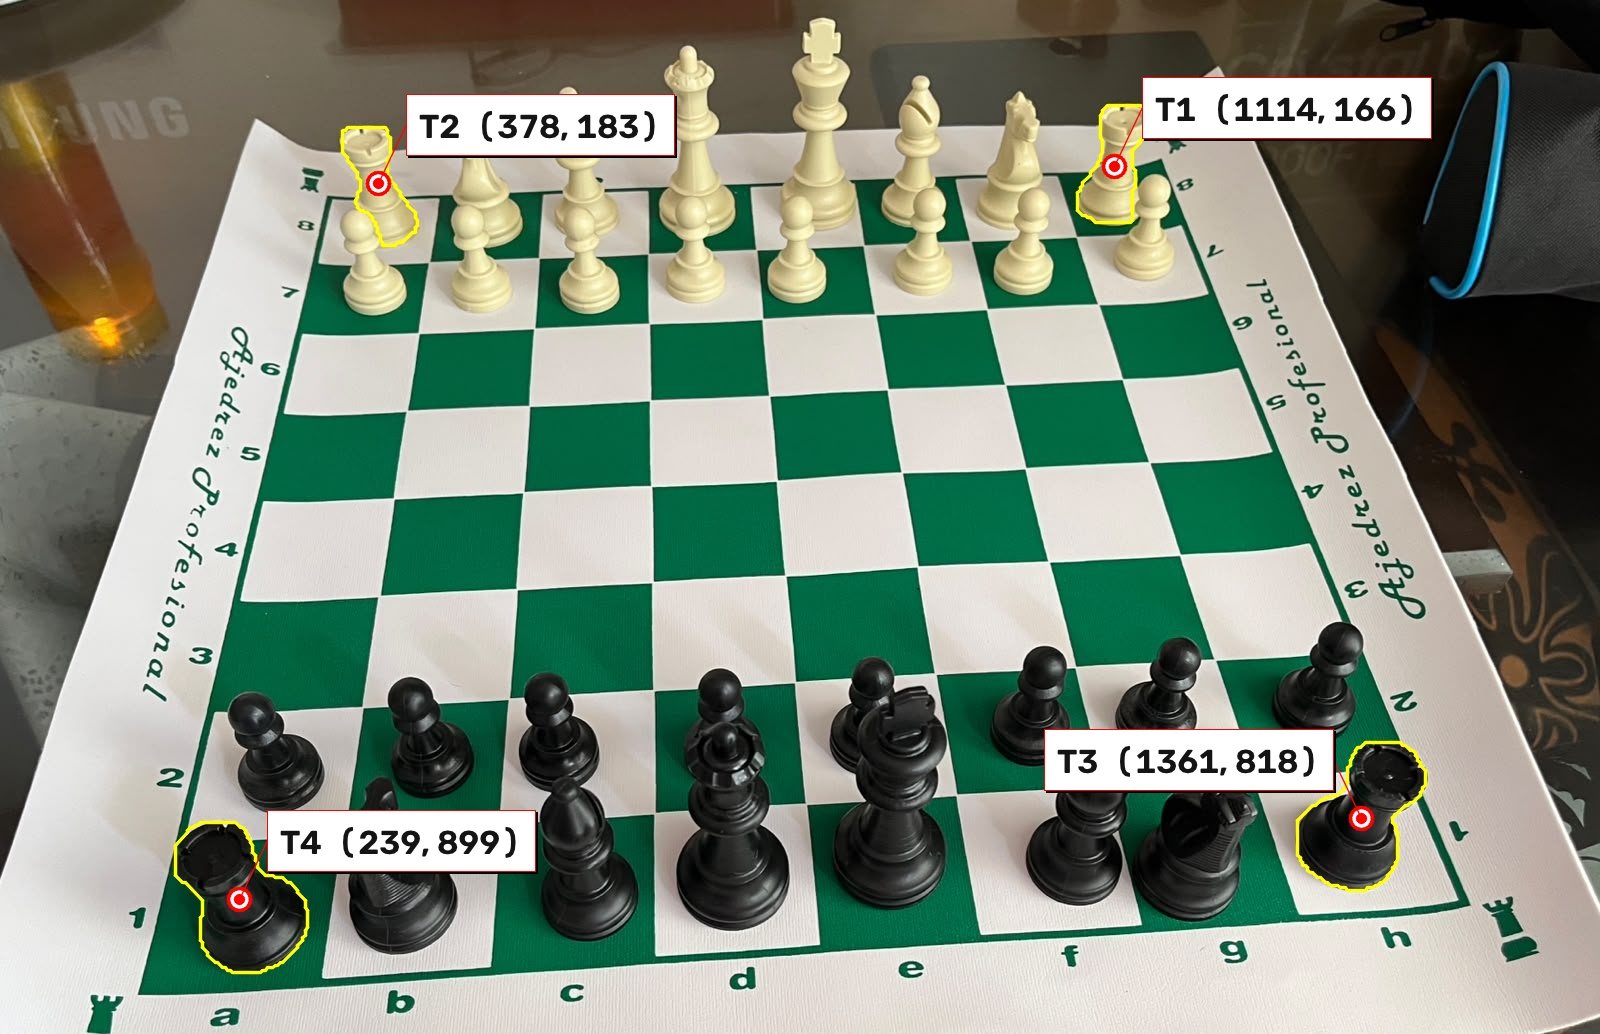
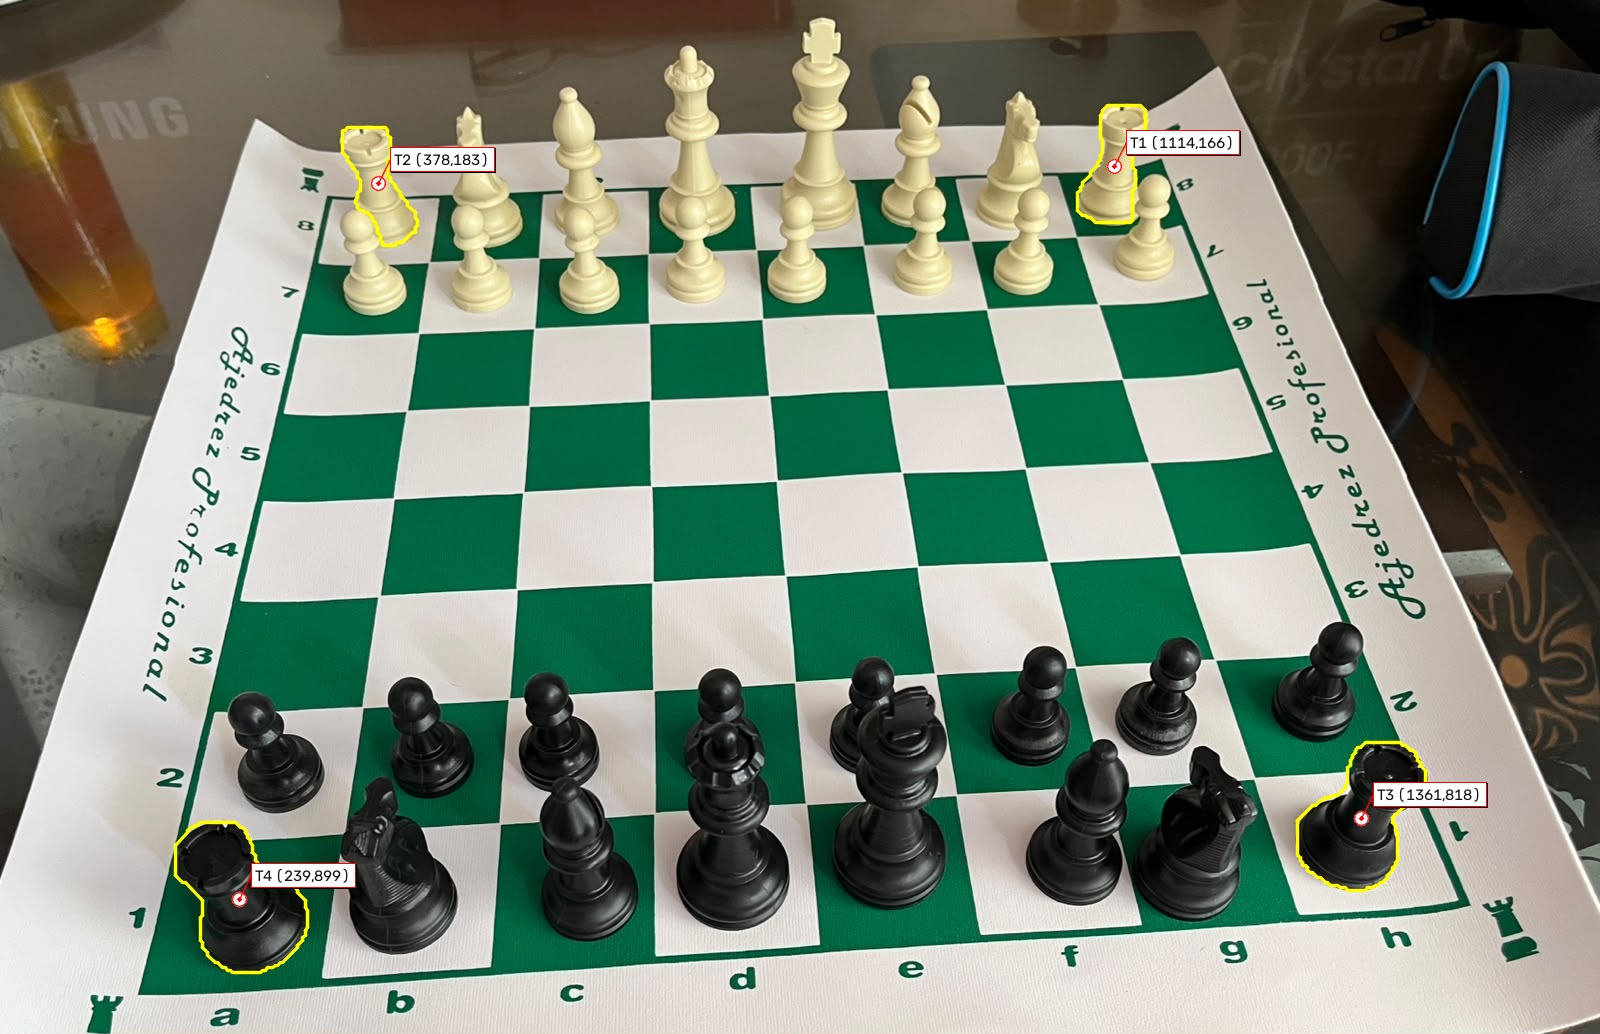
Restricciòn de torres

diff --git a/torres.py b/torres.py
@@ -33,6 +33,10 @@ CONFIANZA = 0.25
 CSV_SALIDA = "torres_detectadas.csv"
 EXTENSIONES = (".jpg", ".jpeg", ".png", ".bmp", ".webp")
 
+# En un tablero no puede haber mas de 4 torres. Si el modelo detecta
+# de mas, se conservan las de mayor confianza y el resto se descarta.
+MAX_TORRES = 4
+
 # Colores en BGR (asi los maneja OpenCV)
 COLOR_SILUETA = (0, 255, 255)     # amarillo
 COLOR_PUNTO = (0, 0, 255)         # rojo
@@ -68,6 +72,26 @@ def centros_de_masa(resultado, model):
     return torres
 
 
+def limitar_torres(torres):
+    """
+    Deja como maximo MAX_TORRES, priorizando las de mayor confianza.
+    Devuelve (conservadas, descartadas).
+    """
+    if len(torres) <= MAX_TORRES:
+        return torres, []
+
+    # Mayor confianza primero; a igual confianza, mascara mas grande
+    por_confianza = sorted(
+        torres, key=lambda t: (t["conf"], t["area"]), reverse=True)
+
+    conservadas = por_confianza[:MAX_TORRES]
+    descartadas = por_confianza[MAX_TORRES:]
+
+    # Se vuelve al orden por posicion para numerarlas de forma estable
+    conservadas.sort(key=lambda t: (t["centro"][1], t["centro"][0]))
+    return conservadas, descartadas
+
+
 def dibujar_etiqueta(imagen, texto, ancla, escala, grosor):
     """
     Etiqueta con fondo solido y una linea guia hasta el punto.
@@ -75,7 +99,7 @@ def dibujar_etiqueta(imagen, texto, ancla, escala, grosor):
     clara u oscura.
     """
     alto_img, ancho_img = imagen.shape[:2]
-    margen = int(8 * escala) + 4
+    margen = 4
 
     (ancho_txt, alto_txt), base = cv2.getTextSize(
         texto, cv2.FONT_HERSHEY_SIMPLEX, escala, grosor)
@@ -84,7 +108,7 @@ def dibujar_etiqueta(imagen, texto, ancla, escala, grosor):
     caja_h = alto_txt + base + margen * 2
 
     # Por defecto arriba a la derecha del punto
-    desplaza = int(18 * escala) + 8
+    desplaza = 12
     x = ancla[0] + desplaza
     y = ancla[1] - desplaza - caja_h
 
@@ -102,44 +126,49 @@ def dibujar_etiqueta(imagen, texto, ancla, escala, grosor):
     destino_x = x if x > ancla[0] else x + caja_w
     destino_y = y + caja_h // 2
     cv2.line(imagen, ancla, (destino_x, destino_y), COLOR_PUNTO,
-             max(1, grosor - 1), cv2.LINE_AA)
+             1, cv2.LINE_AA)
 
     # Caja: sombra, relleno y borde
-    cv2.rectangle(imagen, (x + 2, y + 2), (x + caja_w + 2, y + caja_h + 2),
+    cv2.rectangle(imagen, (x + 1, y + 1), (x + caja_w + 1, y + caja_h + 1),
                   (0, 0, 0), -1)
     cv2.rectangle(imagen, (x, y), (x + caja_w, y + caja_h),
                   COLOR_ETIQUETA, -1)
     cv2.rectangle(imagen, (x, y), (x + caja_w, y + caja_h),
-                  COLOR_PUNTO, max(1, grosor - 1))
+                  COLOR_PUNTO, 1)
 
     cv2.putText(imagen, texto, (x + margen, y + margen + alto_txt),
                 cv2.FONT_HERSHEY_SIMPLEX, escala, COLOR_TEXTO,
                 grosor, cv2.LINE_AA)
 
 
-def dibujar(imagen, torres, ruta):
+def dibujar(imagen, torres, ruta, descartadas=()):
     """Silueta, centro de masa y etiqueta legible de cada torre."""
     alto, ancho = imagen.shape[:2]
 
     # El tamano del texto se adapta a la resolucion de la foto
-    escala = max(0.5, min(1.4, ancho / 1400))
-    grosor = max(1, int(round(escala * 1.8)))
-    radio = max(4, int(round(escala * 7)))
+    escala = max(0.32, min(0.62, ancho / 3000))
+    grosor = 1
+    radio = max(3, int(round(escala * 9)))
+
+    # Las descartadas se marcan en gris, para ver que se dejo fuera
+    for t in descartadas:
+        cv2.polylines(imagen, [t["poligono"]], True, (130, 130, 130),
+                      1, cv2.LINE_AA)
 
     for t in torres:
         cv2.polylines(imagen, [t["poligono"]], True, COLOR_SILUETA,
-                      max(2, grosor), cv2.LINE_AA)
+                      2, cv2.LINE_AA)
 
     for n, t in enumerate(torres, 1):
         x, y = t["centro"]
         p = (int(round(x)), int(round(y)))
 
         # Punto: circulo blanco relleno con anillo rojo, bien visible
-        cv2.circle(imagen, p, radio + 3, (255, 255, 255), -1, cv2.LINE_AA)
-        cv2.circle(imagen, p, radio + 3, COLOR_PUNTO, grosor, cv2.LINE_AA)
+        cv2.circle(imagen, p, radio + 2, (255, 255, 255), -1, cv2.LINE_AA)
+        cv2.circle(imagen, p, radio + 2, COLOR_PUNTO, grosor, cv2.LINE_AA)
         cv2.circle(imagen, p, max(1, radio - 3), COLOR_PUNTO, -1, cv2.LINE_AA)
 
-        dibujar_etiqueta(imagen, f"T{n}  ({p[0]}, {p[1]})", p, escala, grosor)
+        dibujar_etiqueta(imagen, f"T{n} ({p[0]},{p[1]})", p, escala, grosor)
 
     base = os.path.splitext(os.path.basename(ruta))[0]
     salida = f"torres_{base}.jpg"
@@ -155,10 +184,16 @@ def procesar(ruta, model):
 
     nombre = os.path.basename(ruta)
     resultado = model(ruta, conf=CONFIANZA, verbose=False)[0]
-    torres = centros_de_masa(resultado, model)
+    detectadas = centros_de_masa(resultado, model)
+    torres, descartadas = limitar_torres(detectadas)
 
     print(f"\n=== {nombre} ===")
-    print(f"Torres detectadas: {len(torres)}")
+    print(f"Torres detectadas: {len(detectadas)}")
+
+    if descartadas:
+        confs = ", ".join(f"{d['conf']:.2f}" for d in descartadas)
+        print(f"  [i] Maximo {MAX_TORRES}: se descartaron "
+              f"{len(descartadas)} de menor confianza ({confs}).")
 
     filas = []
     if torres:
@@ -177,7 +212,7 @@ def procesar(ruta, model):
     else:
         print("  [!] Ninguna torre detectada. Prueba bajando CONFIANZA.")
 
-    dibujar(imagen, torres, ruta)
+    dibujar(imagen, torres, ruta, descartadas)
     return filas
 
 
